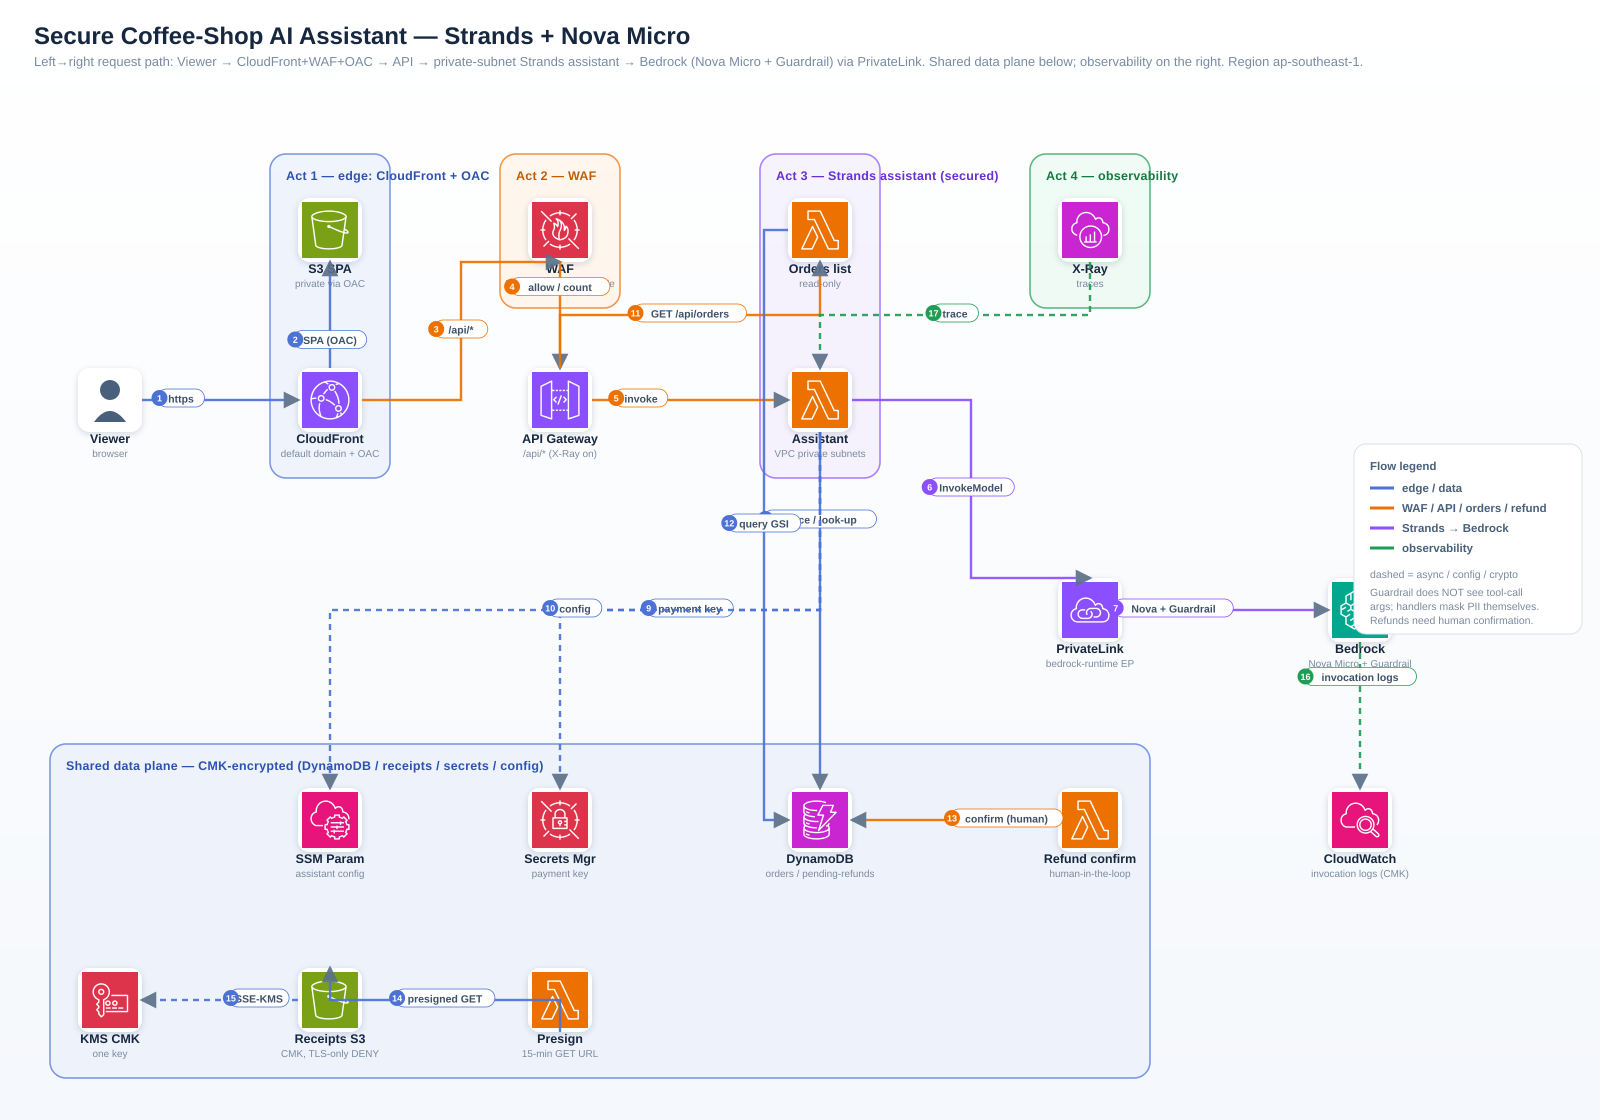
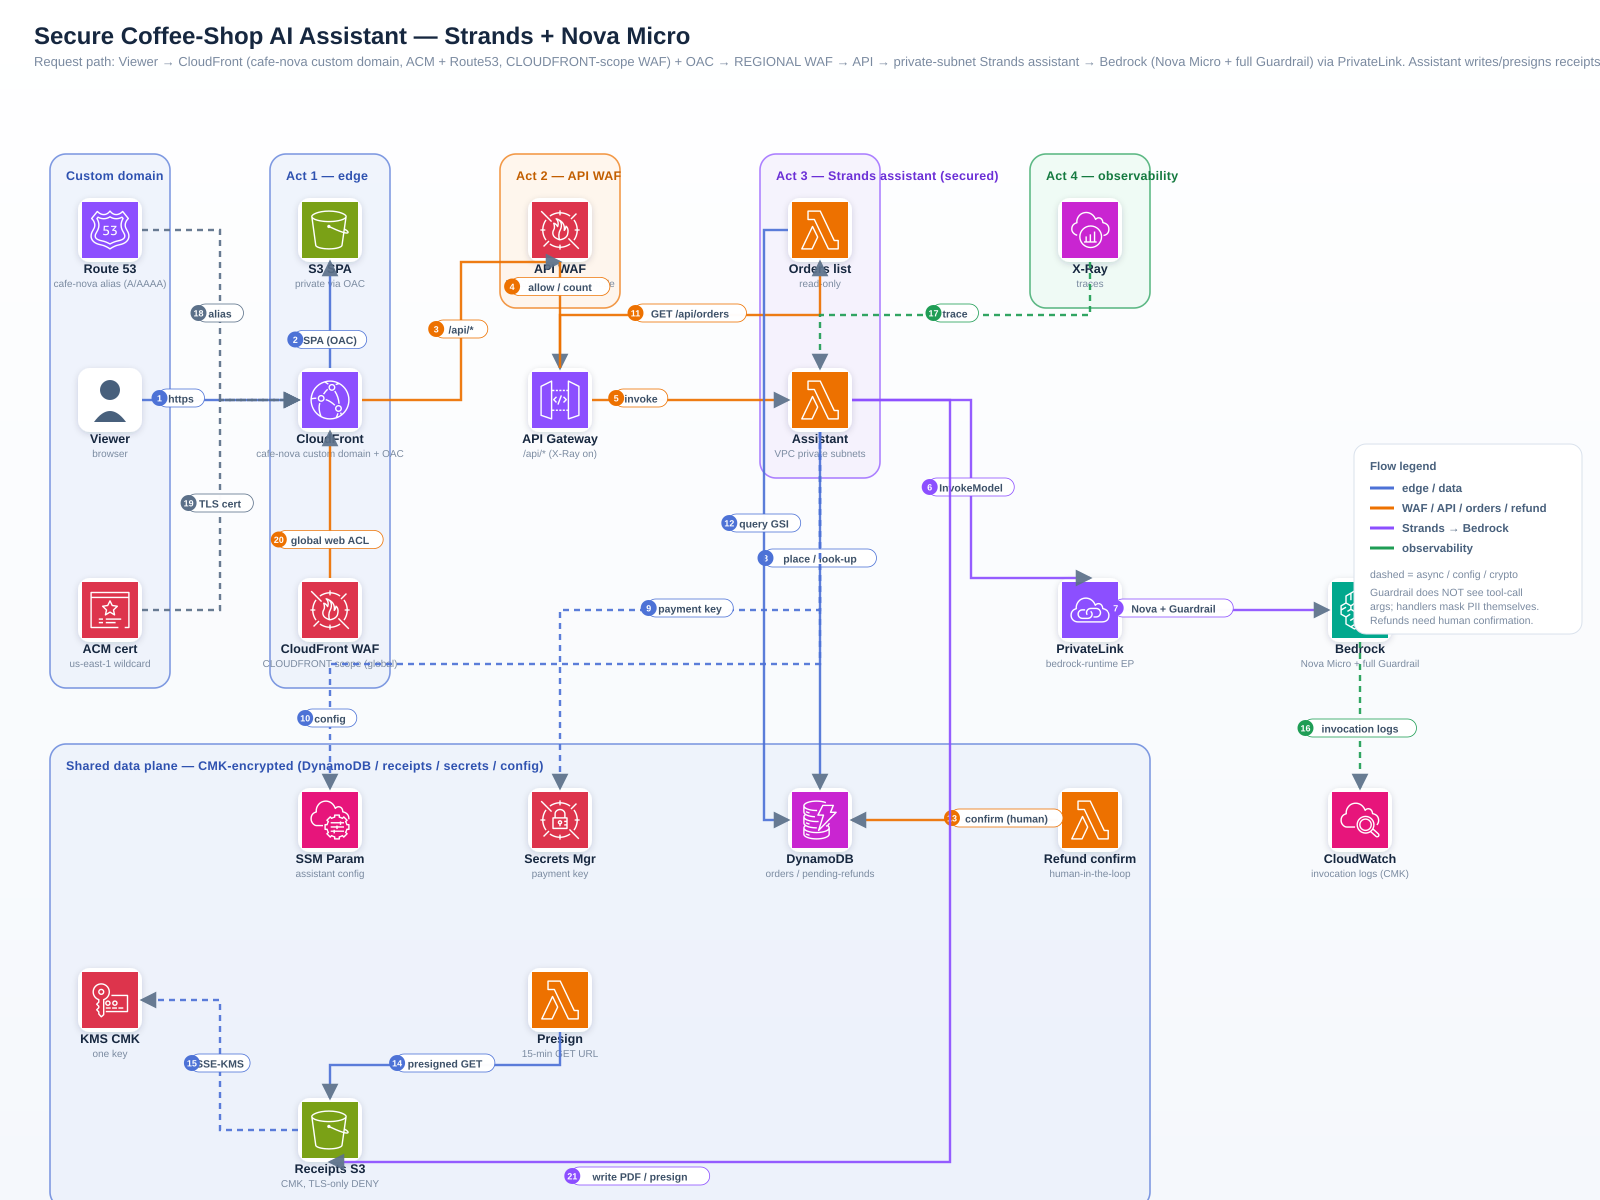
docs(diagram): reflect custom domain, CloudFront WAF, and receipt flow
Add the session's architectural changes to the generated diagram:
- Route 53 (cafe-nova alias A/AAAA) + us-east-1 ACM cert configuring CloudFront
  (custom domain cafe-nova.aws.yikyakyuk.com), shown as dashed config edges.
- A second, CLOUDFRONT-scope (global) WAF web ACL on the distribution,
  distinct from the pre-existing REGIONAL web ACL on API Gateway (relabeled
  'API WAF' vs 'CloudFront WAF').
- An assistant -> receipts S3 edge for the get_receipt_url/place_order flow
  (write receipt PDF on order, presign a 15-min GET for the in-chat link).
- Bedrock relabeled 'Nova Micro + full Guardrail'; caption updated.
Moved receipts to a floor row so the new edge routes cleanly; the no-icon-
crossing self-check still passes (21 connectors, 0 crossings).

diff --git a/demo/session5-secure-assistant/diagram/build_diagram.py b/demo/session5-secure-assistant/diagram/build_diagram.py
@@ -18,11 +18,16 @@ LAYOUT MODEL (readability-first, rewritten to remove arrow overlap):
     * Observability (X-Ray / CloudWatch) sits on the right, kept on its own
       lane so it never crosses the request path.
 
-Flows encoded (unchanged from the architecture):
-  Viewer -> CloudFront; CloudFront -> S3 SPA (OAC); CloudFront -> WAF -> API GW
+Flows encoded:
+  Viewer -> CloudFront (custom domain cafe-nova.aws.yikyakyuk.com)
+  Route53 alias + us-east-1 ACM cert -> CloudFront (custom domain, config)
+  CLOUDFRONT-scope WAF -> CloudFront (global web ACL, distinct from the
+    REGIONAL web ACL on API GW)
+  CloudFront -> S3 SPA (OAC); CloudFront -> REGIONAL WAF -> API GW
   API GW -> assistant Lambda (VPC); API GW -> orders-list Lambda (read-only)
-  assistant -> PrivateLink -> Bedrock (Nova Micro + Guardrail)
+  assistant -> PrivateLink -> Bedrock (Nova Micro + expanded Guardrail)
   assistant -> DynamoDB (place/look-up) + Secrets + SSM
+  assistant -> receipts S3 (write receipt PDF on order; presign GET link in chat)
   orders-list -> DynamoDB byCreatedAt GSI (GET /api/orders)
   refund-confirm -> DynamoDB (human confirmation); presign -> receipts S3
   receipts -> KMS (SSE-KMS); Bedrock -> CloudWatch (invocation logs); X-Ray
@@ -59,6 +64,8 @@ ICONS = {
     "ssm":         "Arch_Management-Tools/64/Arch_AWS-Systems-Manager_64.svg",
     "xray":        "Arch_Developer-Tools/64/Arch_AWS-X-Ray_64.svg",
     "cloudwatch":  "Arch_Management-Tools/64/Arch_Amazon-CloudWatch_64.svg",
+    "route53":     "Arch_Networking-Content-Delivery/64/Arch_Amazon-Route-53_64.svg",
+    "acm":         "Arch_Security-Identity/64/Arch_AWS-Certificate-Manager_64.svg",
 }
 
 
@@ -69,7 +76,7 @@ def data_uri(rel):
 
 U = {k: data_uri(v) for k, v in ICONS.items()}
 
-W, H = 1600, 1120
+W, H = 1600, 1200
 ICON = 56
 
 # Act-color-coded zones (fill, stroke, title color).
@@ -104,6 +111,7 @@ ROW = {
     "mid":    610,   # Bedrock / PrivateLink lane
     "data":   820,   # shared data plane (DynamoDB / secrets / ssm / refund)
     "store":  1000,  # storage / crypto sinks (receipts / kms / presign)
+    "floor":  1130,  # transit lane below the store band (assistant->receipts)
 }
 
 # Node centre (cx, cy). Top of the icon is cy - ICON/2.
@@ -122,10 +130,17 @@ NODE = {
     "ssm":        (COL["edge"],    ROW["data"]),
     "refund":     (COL["ai"],      ROW["data"]),
     "presign":    (COL["api"],     ROW["store"]),
-    "receipts":   (COL["edge"],    ROW["store"]),
+    "receipts":   (COL["edge"],    ROW["floor"]),
     "kms":        (COL["viewer"],  ROW["store"]),
     "cloudwatch": (COL["sink"],    ROW["data"]),
     "xray":       (COL["ai"],      ROW["sat"]),
+    # Custom-domain front door: Route53 alias + us-east-1 ACM cert configure the
+    # CloudFront distribution (control-plane / DNS, not the request hot path).
+    "route53":    (COL["viewer"],  ROW["sat"]),
+    "acm":        (COL["viewer"],  ROW["mid"]),
+    # Second WAF: a CLOUDFRONT-scope (global) web ACL on the distribution,
+    # distinct from the REGIONAL web ACL that fronts API Gateway.
+    "cfwaf":      (COL["edge"],    ROW["mid"]),
 }
 
 
@@ -329,7 +344,7 @@ p.append(f'''<svg xmlns="http://www.w3.org/2000/svg" viewBox="0 0 {W} {H}" font-
 </style>
 <rect x="0" y="0" width="{W}" height="{H}" fill="url(#bg)"/>
 <text x="34" y="44" class="title">Secure Coffee-Shop AI Assistant &#8212; Strands + Nova Micro</text>
-<text x="34" y="66" class="cap">Left&#8594;right request path: Viewer &#8594; CloudFront+WAF+OAC &#8594; API &#8594; private-subnet Strands assistant &#8594; Bedrock (Nova Micro + Guardrail) via PrivateLink. Shared data plane below; observability on the right. Region ap-southeast-1.</text>
+<text x="34" y="66" class="cap">Request path: Viewer &#8594; CloudFront (cafe-nova custom domain, ACM + Route53, CLOUDFRONT-scope WAF) + OAC &#8594; REGIONAL WAF &#8594; API &#8594; private-subnet Strands assistant &#8594; Bedrock (Nova Micro + full Guardrail) via PrivateLink. Assistant writes/presigns receipts in S3. Shared data plane below; observability on the right. Region ap-southeast-1.</text>
 ''')
 
 # ---- Act zones (behind nodes), sized to the new grid ----------------------
@@ -348,8 +363,9 @@ def _zone_for(members, title, kind, pad_top=30, pad=14):
     return zone(x0, y0, x1 - x0, y1 - y0, title, kind)
 
 
-p.append(_zone_for(["spa", "cloudfront"], "Act 1 &#8212; edge: CloudFront + OAC", "act1"))
-p.append(_zone_for(["waf"], "Act 2 &#8212; WAF", "act2"))
+p.append(_zone_for(["spa", "cloudfront", "cfwaf"], "Act 1 &#8212; edge", "act1"))
+p.append(_zone_for(["route53", "acm"], "Custom domain", "act1"))
+p.append(_zone_for(["waf"], "Act 2 &#8212; API WAF", "act2"))
 p.append(_zone_for(["orderslist", "assistant"], "Act 3 &#8212; Strands assistant (secured)", "act3"))
 p.append(_zone_for(["xray"], "Act 4 &#8212; observability", "act4"))
 p.append(_zone_for(
@@ -360,14 +376,17 @@ p.append(_zone_for(
 
 # ---- Nodes ----------------------------------------------------------------
 p.append(user_node("viewer"))
-p.append(icon("cloudfront", "cloudfront", "CloudFront", "default domain + OAC"))
+p.append(icon("route53", "route53", "Route 53", "cafe-nova alias (A/AAAA)"))
+p.append(icon("acm", "acm", "ACM cert", "us-east-1 wildcard"))
+p.append(icon("cloudfront", "cloudfront", "CloudFront", "cafe-nova custom domain + OAC"))
+p.append(icon("cfwaf", "waf", "CloudFront WAF", "CLOUDFRONT scope (global)"))
 p.append(icon("spa", "s3", "S3 SPA", "private via OAC"))
-p.append(icon("waf", "waf", "WAF", "REGIONAL, count mode"))
+p.append(icon("waf", "waf", "API WAF", "REGIONAL, count mode"))
 p.append(icon("apigw", "apigw", "API Gateway", "/api/* (X-Ray on)"))
 p.append(icon("orderslist", "lambda", "Orders list", "read-only"))
 p.append(icon("assistant", "lambda", "Assistant", "VPC private subnets"))
 p.append(icon("privatelink", "privatelink", "PrivateLink", "bedrock-runtime EP"))
-p.append(icon("bedrock", "bedrock", "Bedrock", "Nova Micro + Guardrail"))
+p.append(icon("bedrock", "bedrock", "Bedrock", "Nova Micro + full Guardrail"))
 p.append(icon("dynamodb", "dynamodb", "DynamoDB", "orders / pending-refunds"))
 p.append(icon("secrets", "secrets", "Secrets Mgr", "payment key"))
 p.append(icon("ssm", "ssm", "SSM Param", "assistant config"))
@@ -387,6 +406,11 @@ ALL_BOXES = {k: node_box(k) for k in NODE}
 p.append(orth("viewer", "r", "cloudfront", "l", "https", BLUE, num=1))
 p.append(orth("cloudfront", "t", "spa", "b", "SPA (OAC)", BLUE, num=2))
 p.append(orth("cloudfront", "r", "waf", "b", "/api/*", ORANGE, num=3))
+
+# Custom-domain front door (DNS + cert configure CloudFront) and the global WAF.
+p.append(orth("route53", "r", "cloudfront", "l", "alias", GREY, dash=True, num=18))
+p.append(orth("acm", "r", "cloudfront", "l", "TLS cert", GREY, dash=True, num=19))
+p.append(orth("cfwaf", "t", "cloudfront", "b", "global web ACL", ORANGE, num=20))
 p.append(orth("waf", "b", "apigw", "t", "allow / count", ORANGE, num=4))
 p.append(orth("apigw", "r", "assistant", "l", "invoke", ORANGE, num=5))
 p.append(orth("apigw", "t", "orderslist", "b", "GET /api/orders", ORANGE, num=11))
@@ -397,9 +421,9 @@ p.append(orth("privatelink", "r", "bedrock", "l", "Nova + Guardrail", PURPLE, nu
 
 # Compute -> data plane (downward connectors into the data band). The router
 # auto-selects a clear vertical gutter for each.
-p.append(orth("assistant", "b", "dynamodb", "t", "place / look-up", BLUE, num=8))
+p.append(orth("assistant", "b", "dynamodb", "t", "place / look-up", BLUE, num=8, lx=820, ly=560))
 p.append(orth("assistant", "b", "secrets", "t", "payment key", BLUE, dash=True, num=9))
-p.append(orth("assistant", "b", "ssm", "t", "config", BLUE, dash=True, num=10))
+p.append(orth("assistant", "b", "ssm", "t", "config", BLUE, dash=True, num=10, lx=330, ly=720))
 # Orders list and DynamoDB share the compute column with the Assistant sitting
 # between them, so exit LEFT and let the router find a clear gutter down to
 # DynamoDB's left side (avoids crossing the Assistant icon).
@@ -409,9 +433,15 @@ p.append(orth("refund", "l", "dynamodb", "r", "confirm (human)", ORANGE, num=13)
 # Presign -> receipts -> KMS (store band).
 p.append(orth("presign", "b", "receipts", "t", "presigned GET", BLUE, num=14))
 p.append(orth("receipts", "l", "kms", "r", "SSE-KMS", BLUE, dash=True, num=15))
+# Assistant get_receipt_url / place_order touch receipts S3 directly: write the
+# receipt PDF on order placement and presign a 15-min GET for the chat link.
+# Routed down the clear gutter right of the compute column, along the floor lane
+# below the store band, and up into receipts from the bottom — avoids the dense
+# store band (presign/kms) and the data band (dynamodb).
+p.append(orth("assistant", "r", "receipts", "b", "write PDF / presign", PURPLE, num=21, mid=950, lx=640, ly=1178))
 
 # Observability (own right-hand lane; never crosses the request spine).
-p.append(orth("bedrock", "b", "cloudwatch", "t", "invocation logs", GREEN, dash=True, num=16))
+p.append(orth("bedrock", "b", "cloudwatch", "t", "invocation logs", GREEN, dash=True, num=16, lx=1360, ly=730))
 p.append(orth("xray", "b", "assistant", "t", "trace", GREEN, dash=True, num=17))
 
 # ---- Legend ---------------------------------------------------------------
